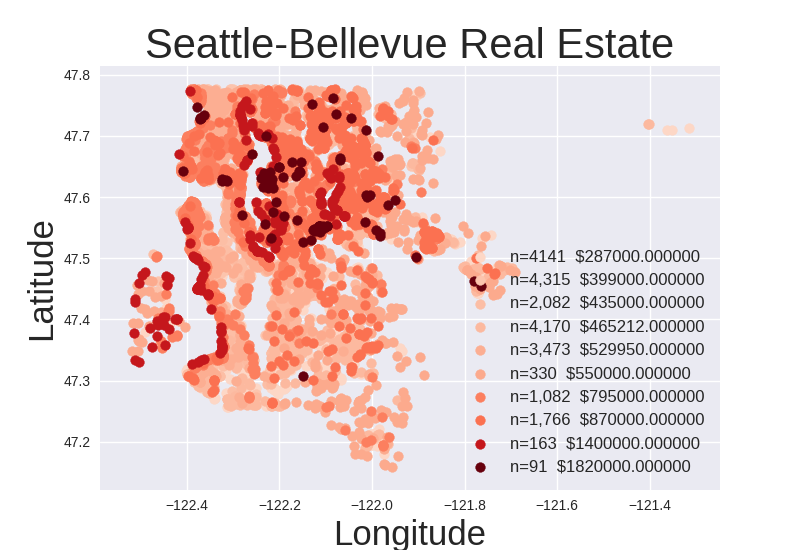
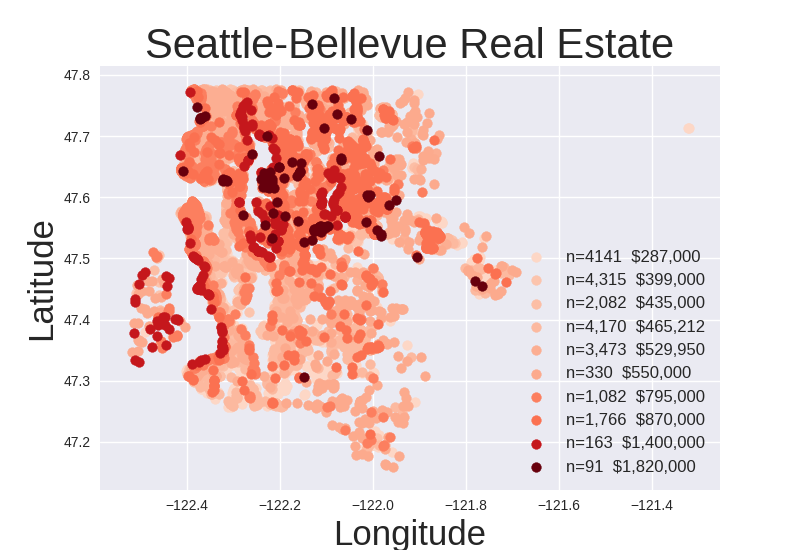
typos

diff --git a/housing.py b/housing.py
@@ -90,7 +90,7 @@ class data():
         self.centers=centers
 
         xm = pd.concat([xm, y['group']], axis=1)
-        self.xm=xmx
+        self.xm=xm
         return xm['group']
 
     def map(self):
@@ -107,7 +107,7 @@ class data():
             group = group.sample(size)
 
             plt.scatter(group.long, group.lat,
-                        label='n={:n}  ${:0f}'.format(centers.loc[i]['count'], centers.loc[i]['median']),
+                        label='n={:n}  ${:,.0f}'.format(centers.loc[i]['count'], centers.loc[i]['median']),
                         c=cm.Reds(centers.loc[i]['median'] / max_median))
 
         #plt.scatter(centers['long'],centers['lat'],label='Centers',marker='^',s=200)

diff --git a/readme.md b/readme.md
@@ -50,11 +50,5 @@ It appears that the model provides higher confidence for homes that are between 
 
 Further work would be to determine if there are any time-related factors for home pricing.  Our variable time was not very predictive in this model.  The analysis found instances of same sale homes over time.  This information could be used to improve predictions especially for homes with prior sales information.  
 
-| column | column |columns|
-|--------|--------|-------
-| dfsdsdf |   aa   	|      dfsdf
-|dfdssdfds
-
-sdf
 
 
